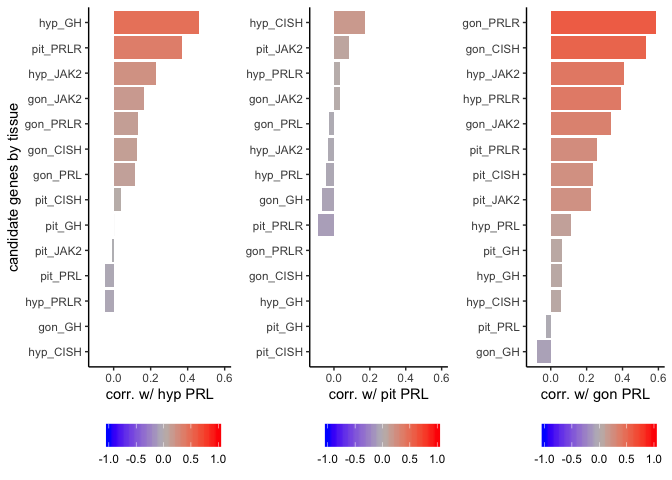
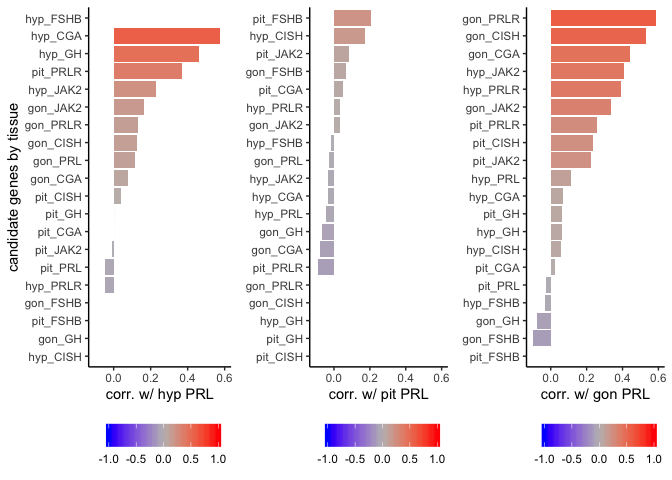
new candidate genes, found LHB

diff --git a/analysis/20_forrechelle.md b/analysis/20_forrechelle.md
@@ -1,4 +1,5 @@
-    candidategenes <- c("PRLR", "PRL", "CISH", "JAK2", "SOCS3", "GH" )
+    candidategenes <- c("PRLR", "PRL", "CISH", "JAK2", "SOCS3", "GH", "FSHB", "CGA" )
+
     datadrivengenes <- c("COX1", "PRL", "CHGA", "ATP2B4", "LOC107055658")
 
     calisigenes <- c("PRL", "PRLR", 
@@ -6,7 +7,8 @@
                      "OXT", "AVP", "AVPR1A", "AVPR1B", 
                      "GNRH1","GNRHR", "NPVF",
                      "NR3C1", "NR3C2",
-                     "ESR1", "ESR2", "AR")
+                     "ESR1", "ESR2", "AR",
+                     "FSH", "CGA")
 
     timepoints <- charlevels
 
@@ -79,12 +81,12 @@ candidate genes
     ## # A tibble: 6 x 6
     ##   bird    sex    treatment tissue gene    vsd
     ##   <chr>   <chr>  <chr>     <fct>  <chr> <dbl>
-    ## 1 L.Blu13 male   control   gonads CISH   8.75
-    ## 2 L.G107  male   control   gonads CISH   9.69
-    ## 3 L.G118  female control   gonads CISH   7.75
-    ## 4 L.R3    male   control   gonads CISH  10.1 
-    ## 5 L.R8    male   control   gonads CISH   9.98
-    ## 6 L.W33   male   control   gonads CISH   9.58
+    ## 1 L.Blu13 male   control   gonads CGA   10.3 
+    ## 2 L.G107  male   control   gonads CGA    9.33
+    ## 3 L.G118  female control   gonads CGA    9.31
+    ## 4 L.R3    male   control   gonads CGA   10.4 
+    ## 5 L.R8    male   control   gonads CGA    9.31
+    ## 6 L.W33   male   control   gonads CGA    8.85
 
     df2$treatment <- factor(df2$treatment, levels = alllevels)
     df2$tissue <- factor(df2$tissue, levels = tissuelevels)
@@ -104,7 +106,7 @@ candidate genes
      print(p)
     }
 
-![](../figures/favegenes/candidates-1.png)![](../figures/favegenes/candidates-2.png)![](../figures/favegenes/candidates-3.png)![](../figures/favegenes/candidates-4.png)![](../figures/favegenes/candidates-5.png)
+![](../figures/favegenes/candidates1-1.png)![](../figures/favegenes/candidates1-2.png)![](../figures/favegenes/candidates1-3.png)![](../figures/favegenes/candidates1-4.png)![](../figures/favegenes/candidates1-5.png)![](../figures/favegenes/candidates1-6.png)![](../figures/favegenes/candidates1-7.png)
 
     df3 <- df2 %>% 
       mutate(treatment = fct_relevel(treatment, timepoints)) %>% 
@@ -114,15 +116,15 @@ candidate genes
     head(df3)  
 
     ## # A tibble: 6 x 7
-    ## # Groups:   sex, treatment, tissue [2]
+    ## # Groups:   sex, treatment, tissue [1]
     ##   sex    treatment tissue    gene      m     se image                      
     ##   <chr>  <fct>     <fct>     <fct> <dbl>  <dbl> <chr>                      
-    ## 1 female control   hypothal… CISH   7.42 0.228  ../figures/images/DovePare…
-    ## 2 female control   hypothal… GH     9.33 0.330  ../figures/images/DovePare…
-    ## 3 female control   hypothal… JAK2   8.53 0.0774 ../figures/images/DovePare…
-    ## 4 female control   hypothal… PRL   11.3  0.536  ../figures/images/DovePare…
-    ## 5 female control   hypothal… PRLR   8.05 0.139  ../figures/images/DovePare…
-    ## 6 female control   pituitary CISH   9.31 0.173  ../figures/images/DovePare…
+    ## 1 female control   hypothal… CGA   10.5  0.189  ../figures/images/DovePare…
+    ## 2 female control   hypothal… CISH   7.42 0.228  ../figures/images/DovePare…
+    ## 3 female control   hypothal… FSHB   6.10 0.293  ../figures/images/DovePare…
+    ## 4 female control   hypothal… GH     9.33 0.330  ../figures/images/DovePare…
+    ## 5 female control   hypothal… JAK2   8.53 0.0774 ../figures/images/DovePare…
+    ## 6 female control   hypothal… PRL   11.3  0.536  ../figures/images/DovePare…
 
     for (i in levels(df3$tissue)) {
       
@@ -139,7 +141,7 @@ candidate genes
      print(p)
     }
 
-![](../figures/favegenes/candidates-6.png)![](../figures/favegenes/candidates-7.png)![](../figures/favegenes/candidates-8.png)
+![](../figures/favegenes/candidates2-1.png)![](../figures/favegenes/candidates2-2.png)![](../figures/favegenes/candidates2-3.png)
 
     df3 %>%
         ggplot(aes(x = treatment, y = m)) +
@@ -152,7 +154,7 @@ candidate genes
         theme_B3() +
         theme(axis.text.x = element_text(angle = 45, hjust = 1))
 
-![](../figures/favegenes/candidates-9.png)
+![](../figures/favegenes/candidates3-1.png)
 
     ePRL <- df2 %>% dplyr::rename(value = vsd, measurement = gene) %>% filter(measurement == "PRL") %>% droplevels()
     ePRLR <- df2 %>% dplyr::rename(value = vsd, measurement = gene) %>% filter(measurement == "PRLR") %>% droplevels()
@@ -214,27 +216,27 @@ candidate genes
     dft$bird <- NULL
     head(dft)
 
-    ##          gon_CISH   gon_GH gon_JAK2   gon_PRL gon_PRLR hyp_CISH   hyp_GH
-    ## L.Blu13  8.752463 9.630519 9.870018 12.620157 7.519119 8.195291 11.23222
-    ## L.G107   9.685718 7.999319 9.625719  9.975896 7.033196 8.531852 10.47964
-    ## L.G118   7.746627 9.312189 8.303121  9.585174 5.584985 5.463812 10.54857
-    ## L.R3    10.091290 9.661806 9.184809 12.713160 7.780442 8.213306  9.89367
-    ## L.R8     9.982216 7.837528 9.220338 10.190503 7.517327 8.263373 11.66288
-    ## L.W33    9.575585 8.104064 8.904483 10.282352 7.497994 8.234172 10.65886
-    ##         hyp_JAK2  hyp_PRL hyp_PRLR  pit_CISH   pit_GH pit_JAK2  pit_PRL
-    ## L.Blu13 9.055230 12.58395 8.522239  9.321163 16.56528 9.362994 17.03357
-    ## L.G107  9.165604 10.94625 8.452225  9.657710 16.57417 9.342533 18.14585
-    ## L.G118  8.887380 12.98360 8.481032  9.879818 18.03054 8.923568 18.18094
-    ## L.R3    8.367134 10.71558 7.454105 10.008407 17.11419 8.894092 16.78585
-    ## L.R8    8.877838 11.90012 8.974098  9.678544 15.66945 9.344693 17.58225
-    ## L.W33   9.069194 12.47638 8.388383  8.568670 15.49809 9.516664 20.20969
-    ##         pit_PRLR
-    ## L.Blu13 9.278048
-    ## L.G107  9.137519
-    ## L.G118  8.966179
-    ## L.R3    9.197612
-    ## L.R8    9.561870
-    ## L.W33   8.714056
+    ##           gon_CGA  gon_CISH gon_FSHB   gon_GH gon_JAK2   gon_PRL gon_PRLR
+    ## L.Blu13 10.276835  8.752463 7.010403 9.630519 9.870018 12.620157 7.519119
+    ## L.G107   9.326330  9.685718 5.136372 7.999319 9.625719  9.975896 7.033196
+    ## L.G118   9.306396  7.746627 6.601791 9.312189 8.303121  9.585174 5.584985
+    ## L.R3    10.393589 10.091290 6.790839 9.661806 9.184809 12.713160 7.780442
+    ## L.R8     9.312446  9.982216 5.094668 7.837528 9.220338 10.190503 7.517327
+    ## L.W33    8.852477  9.575585 4.746627 8.104064 8.904483 10.282352 7.497994
+    ##           hyp_CGA hyp_CISH hyp_FSHB   hyp_GH hyp_JAK2  hyp_PRL hyp_PRLR
+    ## L.Blu13 10.722406 8.195291 7.212804 11.23222 9.055230 12.58395 8.522239
+    ## L.G107  10.304413 8.531852 5.463812 10.47964 9.165604 10.94625 8.452225
+    ## L.G118  10.847600 5.463812 6.763414 10.54857 8.887380 12.98360 8.481032
+    ## L.R3     9.775206 8.213306 5.463812  9.89367 8.367134 10.71558 7.454105
+    ## L.R8     9.994246 8.263373 6.661287 11.66288 8.877838 11.90012 8.974098
+    ## L.W33   10.651401 8.234172 6.680838 10.65886 9.069194 12.47638 8.388383
+    ##          pit_CGA  pit_CISH pit_FSHB   pit_GH pit_JAK2  pit_PRL pit_PRLR
+    ## L.Blu13 15.69590  9.321163 10.19741 16.56528 9.362994 17.03357 9.278048
+    ## L.G107  15.77569  9.657710 13.35324 16.57417 9.342533 18.14585 9.137519
+    ## L.G118  16.20775  9.879818 11.76137 18.03054 8.923568 18.18094 8.966179
+    ## L.R3    16.08147 10.008407 12.12199 17.11419 8.894092 16.78585 9.197612
+    ## L.R8    16.57337  9.678544 13.37029 15.66945 9.344693 17.58225 9.561870
+    ## L.W33   15.54004  8.568670 12.48586 15.49809 9.516664 20.20969 8.714056
 
     x <- correlate(dft)
 
@@ -285,9 +287,11 @@ candidate genes
 
     cde <- plot_grid(c,d, e, nrow = 1, rel_widths = c(1.1,1,1))
 
-    ## Warning: Removed 2 rows containing missing values (position_stack).
+    ## Warning: Removed 5 rows containing missing values (position_stack).
 
     ## Warning: Removed 5 rows containing missing values (position_stack).
+
+    ## Warning: Removed 1 rows containing missing values (position_stack).
 
     cde
 
